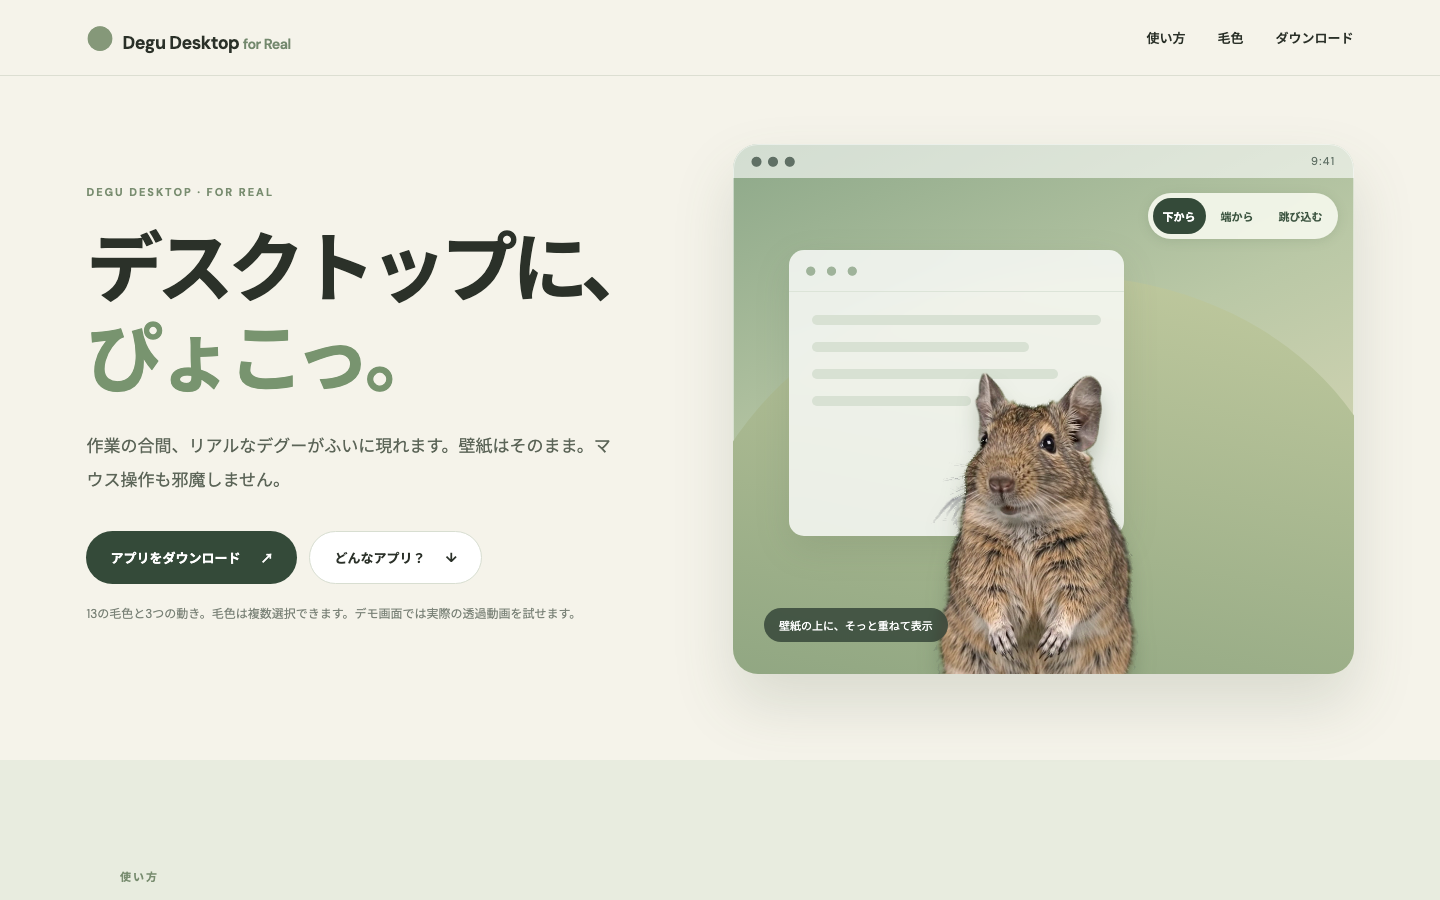
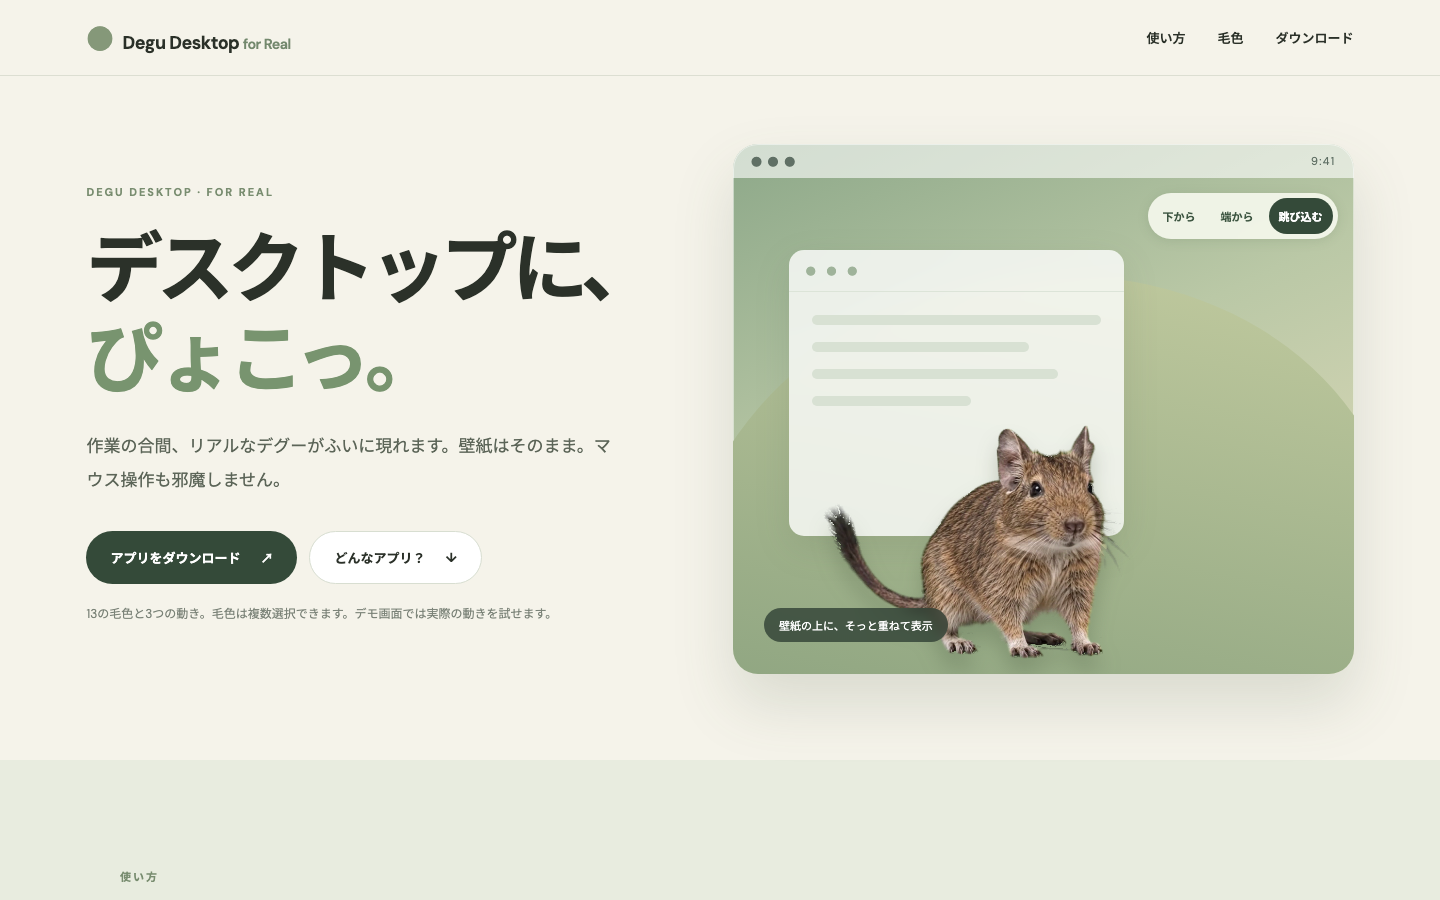
Fit mobile degu demo and add WebKit animation fallback

diff --git a/docs/demo.js b/docs/demo.js
@@ -1,9 +1,16 @@
 const demo = document.querySelector('.desktop');
 const video = document.getElementById('demo-video');
+const webp = document.getElementById('demo-webp');
 const controls = document.getElementById('demo-controls');
 const buttons = [...controls.querySelectorAll('button')];
 const reducedMotion = window.matchMedia('(prefers-reduced-motion: reduce)');
-let ready = false;
+const useWebp = /AppleWebKit/i.test(navigator.userAgent) &&
+  !/(Chrome|Chromium|Edg|OPR)\//i.test(navigator.userAgent);
+let nextTimer;
+
+function currentButton() {
+  return buttons.find(button => button.getAttribute('aria-pressed') === 'true');
+}
 
 function selectButton(button) {
   for (const item of buttons) item.setAttribute('aria-pressed', String(item === button));
@@ -11,35 +18,72 @@ function selectButton(button) {
 }
 
 function playSelected(button) {
+  clearTimeout(nextTimer);
   selectButton(button);
-  const next = `assets/demo/${button.dataset.demo}`;
-  if (!video.src.endsWith(next)) video.src = next;
-  video.currentTime = 0;
-  video.play().catch(() => demo.classList.remove('demo-playing'));
+  const path = `assets/demo/${button.dataset.demo}`;
+  if (useWebp) {
+    webp.src = path.replace(/\.webm$/, '.webp');
+  } else {
+    if (!video.src.endsWith(path)) video.src = path;
+    video.currentTime = 0;
+    video.play().catch(() => demo.classList.remove('demo-playing'));
+  }
 }
 
-function activateDemo() {
-  if (ready) return;
-  if (!video.canPlayType('video/webm; codecs="vp9"')) return;
-  ready = true;
-  demo.classList.add('demo-ready');
-  controls.hidden = false;
+function playNext() {
+  const current = buttons.indexOf(currentButton());
+  playSelected(buttons[(current + 1) % buttons.length]);
+}
+
+function scheduleNextWebp() {
+  clearTimeout(nextTimer);
+  if (!reducedMotion.matches) nextTimer = setTimeout(playNext, 4000);
+}
+
+function showFallback() {
+  clearTimeout(nextTimer);
+  demo.classList.remove('demo-playing', 'demo-ready', 'demo-webp');
+  controls.hidden = true;
+}
+
+if (useWebp) {
+  webp.addEventListener('load', () => {
+    demo.classList.add('demo-webp', 'demo-playing');
+    controls.hidden = false;
+    scheduleNextWebp();
+  });
+  webp.addEventListener('error', () => {
+    if (webp.hasAttribute('src')) showFallback();
+  });
+  if (!reducedMotion.matches) playSelected(currentButton());
+  else controls.hidden = false;
+} else if (video.canPlayType('video/webm; codecs="vp9"')) {
+  video.addEventListener('loadeddata', () => {
+    demo.classList.add('demo-ready');
+    controls.hidden = false;
+    if (!reducedMotion.matches) video.play().catch(() => {});
+  });
+  video.addEventListener('playing', () => demo.classList.add('demo-playing'));
+  video.addEventListener('ended', () => {
+    demo.classList.remove('demo-playing');
+    if (!reducedMotion.matches) playNext();
+  });
+  video.addEventListener('error', showFallback);
+  video.src = `assets/demo/${currentButton().dataset.demo}`;
+  video.load();
   if (!reducedMotion.matches) video.play().catch(() => {});
+} else {
+  showFallback();
 }
 
-video.addEventListener('loadeddata', activateDemo);
-
-video.addEventListener('playing', () => demo.classList.add('demo-playing'));
-video.addEventListener('ended', () => {
-  demo.classList.remove('demo-playing');
-  if (!reducedMotion.matches) {
-    const current = buttons.findIndex(button => button.getAttribute('aria-pressed') === 'true');
-    playSelected(buttons[(current + 1) % buttons.length]);
+for (const button of buttons) button.addEventListener('click', () => playSelected(button));
+reducedMotion.addEventListener('change', () => {
+  if (reducedMotion.matches) {
+    clearTimeout(nextTimer);
+    video.pause();
+    webp.removeAttribute('src');
+    demo.classList.remove('demo-playing', 'demo-webp');
+  } else {
+    playSelected(currentButton());
   }
 });
-video.addEventListener('error', () => {
-  demo.classList.remove('demo-playing', 'demo-ready');
-  controls.hidden = true;
-});
-for (const button of buttons) button.addEventListener('click', () => playSelected(button));
-if (video.readyState >= 2) activateDemo();

diff --git a/docs/index.html b/docs/index.html
@@ -25,17 +25,18 @@
           <a class="button primary" href="download.html">アプリをダウンロード <span>↗</span></a>
           <a class="button secondary" href="#how">どんなアプリ？ <span>↓</span></a>
         </div>
-        <p class="release-note">13の毛色と3つの動き。毛色は複数選択できます。デモ画面では実際の透過動画を試せます。</p>
+        <p class="release-note">13の毛色と3つの動き。毛色は複数選択できます。デモ画面では実際の動きを試せます。</p>
       </div>
       <div class="desktop" aria-label="デスクトップに現れるデグーのイメージ">
         <div class="desktop-bar"><span>● ● ●</span><span>9:41</span></div>
         <div class="desktop-window"><div class="window-dots">● ● ●</div><div class="window-lines"><i></i><i></i><i></i><i></i></div></div>
         <img class="hero-degu hero-degu-fallback" src="assets/colors/agouti.png" alt="アグーチカラーのリアルなデグー">
-        <video class="hero-degu-video" id="demo-video" muted playsinline preload="auto" aria-label="アグーチカラーのデグーが下からぴょこっと現れる動画" src="assets/demo/agouti-a-bottom-pop.webm"></video>
+        <video class="hero-degu-video" id="demo-video" muted playsinline preload="none" aria-label="アグーチカラーのデグーが跳び込む動画"></video>
+        <img class="hero-degu-animation" id="demo-webp" alt="" aria-hidden="true">
         <div class="demo-controls" id="demo-controls" role="group" aria-label="デグーの動きを選ぶ" hidden>
-          <button type="button" data-demo="agouti-a-bottom-pop.webm" data-label="下からぴょこ" aria-pressed="true">下から</button>
+          <button type="button" data-demo="agouti-a-bottom-pop.webm" data-label="下からぴょこ" aria-pressed="false">下から</button>
           <button type="button" data-demo="agouti-b-side-peek.webm" data-label="端からのぞく" aria-pressed="false">端から</button>
-          <button type="button" data-demo="agouti-c-center-hop.webm" data-label="跳び込む" aria-pressed="false">跳び込む</button>
+          <button type="button" data-demo="agouti-c-center-hop.webm" data-label="跳び込む" aria-pressed="true">跳び込む</button>
         </div>
         <div class="desktop-label">壁紙の上に、そっと重ねて表示</div>
       </div>

diff --git a/docs/style.css b/docs/style.css
@@ -4,3 +4,17 @@
 @media(max-width:600px){.topbar{padding:0 22px;gap:8px}.brand{font-size:14px;white-space:nowrap}.brand-mark{font-size:19px;margin-right:2px}.brand-tag{display:none}.topbar nav{flex-shrink:0}.topbar nav a:not(:last-child){display:none}.hero{grid-template-columns:minmax(0,1fr);padding-left:22px;padding-right:22px}.hero>*{min-width:0}.hero h1{font-size:clamp(35px,9vw,48px);overflow-wrap:anywhere}.desktop{min-width:0}.actions .button{max-width:100%}}
 .hero-degu-fallback{transition:opacity .2s}.hero-degu-video{display:none;position:absolute;left:0;bottom:0;width:100%;height:auto;pointer-events:none;filter:drop-shadow(0 15px 10px #3d4c3440)}.demo-ready .hero-degu-video{display:block}.demo-playing .hero-degu-fallback{opacity:0}.demo-controls[hidden]{display:none}.demo-controls{position:absolute;z-index:5;top:49px;right:16px;display:flex;gap:5px;padding:5px;border-radius:999px;background:#f8faf0df;backdrop-filter:blur(9px);box-shadow:0 2px 12px #3b4c3420}.demo-controls button{border:0;background:transparent;color:#3d5541;border-radius:999px;padding:7px 10px;font:700 11px 'Noto Sans JP',sans-serif;cursor:pointer;white-space:nowrap}.demo-controls button[aria-pressed="true"]{background:#344a39;color:white}.demo-controls button:focus-visible{outline:3px solid #315c9e;outline-offset:2px}.desktop-label{z-index:6}@media(max-width:600px){.demo-controls{top:45px;right:10px;gap:1px;padding:4px}.demo-controls button{font-size:10px;padding:6px 8px}}
 .demo-controls button{min-height:36px}@media(max-width:600px){.demo-controls button{min-height:44px}footer span{display:block}}
+.hero-degu-animation{display:none;position:absolute;left:0;bottom:0;width:100%;height:auto;pointer-events:none;filter:drop-shadow(0 15px 10px #3d4c3440)}
+.demo-webp .hero-degu-animation{display:block}
+.demo-webp .hero-degu-video{display:none}
+@media(max-width:600px){
+  .hero{padding-top:32px;padding-bottom:55px;gap:20px}
+  .hero h1{margin:16px 0}
+  .hero-copy>p{line-height:1.8}
+  .actions{margin-top:22px}
+  .hero-copy .release-note{margin-top:13px}
+  .desktop{height:250px;min-height:250px}
+  .hero-degu{width:58%;right:6%}
+  .desktop-label{display:none}
+}
+@media(max-width:360px){.desktop{height:238px;min-height:238px}}

diff --git a/scripts/build_site_demo_webp.py b/scripts/build_site_demo_webp.py
@@ -1,0 +1,48 @@
+#!/usr/bin/env python3
+"""Build animated WebP previews for browsers that lose VP9 alpha in WebM."""
+
+from pathlib import Path
+import subprocess
+
+from PIL import Image
+
+
+ROOT = Path(__file__).resolve().parents[1]
+DEMO = ROOT / "docs" / "assets" / "demo"
+WIDTH, HEIGHT, FPS = 640, 360, 18
+FRAME_BYTES = WIDTH * HEIGHT * 4
+
+
+def convert(source: Path) -> None:
+    command = [
+        "ffmpeg", "-v", "error", "-c:v", "libvpx-vp9", "-i", str(source),
+        "-vf", f"fps={FPS},scale={WIDTH}:{HEIGHT}:flags=lanczos",
+        "-pix_fmt", "rgba", "-f", "rawvideo", "-",
+    ]
+    process = subprocess.Popen(command, stdout=subprocess.PIPE)
+    assert process.stdout is not None
+    frames = []
+    while data := process.stdout.read(FRAME_BYTES):
+        if len(data) != FRAME_BYTES:
+            raise RuntimeError(f"Incomplete frame in {source.name}")
+        frames.append(Image.frombytes("RGBA", (WIDTH, HEIGHT), data))
+    if process.wait() != 0 or not frames:
+        raise RuntimeError(f"Could not decode {source.name}")
+
+    target = source.with_suffix(".webp")
+    frames[0].save(
+        target,
+        format="WEBP",
+        save_all=True,
+        append_images=frames[1:],
+        duration=round(1000 / FPS),
+        loop=0,
+        quality=78,
+        method=5,
+    )
+    print(f"{target.relative_to(ROOT)}: {len(frames)} frames, {target.stat().st_size:,} bytes")
+
+
+if __name__ == "__main__":
+    for source in sorted(DEMO.glob("*.webm")):
+        convert(source)

diff --git a/docs/design/DESIGN.md b/docs/design/DESIGN.md
@@ -5,8 +5,8 @@
 
 - Status: verified
 - Owner: Codex
-- Last verified: 2026-09-23
-- Target release or task: v0.4.0 direct downloads and WebM product demo
+- Last verified: 2026-09-24
+- Target release or task: v0.4.0 direct downloads and mobile motion demo
 
 ## Product and primary job / 対象と主目的
 
@@ -93,7 +93,7 @@ flowchart LR
 - Spacing/grid: Maximum 1200 px content width; three columns on desktop, one column on mobile.
 - Radius/border/elevation rules: Use existing soft radii; borders distinguish choices without heavy shadows.
 - Icons and imagery: Existing degu asset may appear as a small accent; platform names remain text.
-- Motion and reduced-motion behavior: The download page has no animation. The product page previews the actual WebM clips; reduced-motion settings prevent autoplay.
+- Motion and reduced-motion behavior: The download page has no animation. The product page previews the three WebM clips in browsers that support VP9 and animated WebP conversions in WebKit, where transparent VP9 WebM has a known grey-background bug. Reduced-motion settings prevent autoplay. A still image remains if media fails.
 - Design-token source or mapping: Existing `docs/style.css` colors and type.
 
 ## Responsive behavior / レスポンシブ
@@ -136,7 +136,8 @@ flowchart LR
 - [x] Native links/buttons, visible focus, and reduced-motion behavior are present.
 - [x] No horizontal overflow at 1440, 390, or 320 px in Chrome viewport checks.
 - [x] Public copy names chips and OS versions plainly.
-- [x] The download page needs no JavaScript; the demo uses the three existing 1.5–2.1 MB clips.
+- [x] The download page needs no JavaScript; the demo uses the three existing 1.5–2.1 MB WebM clips and three 0.8–1.3 MB WebP conversions for WebKit.
+- [x] Mobile demo starts with the full-body center-hop clip; the entire mock is visible at 390×844 and 320×780.
 - [x] Mismatch ledger has no unexplained release blocker.
 
 ## Evidence and mismatch ledger / 証拠と差分
@@ -145,12 +146,15 @@ flowchart LR
 ![Download page mobile](evidence/after/download-mobile.png)
 ![WebM demo desktop](evidence/after/demo-desktop.png)
 ![WebM demo mobile](evidence/after/demo-mobile.png)
+![WebM demo narrow mobile](evidence/after/chrome-320.png)
+![Animated WebP demo mobile](evidence/after/safari-webp-390.png)
+![Reduced-motion still mobile](evidence/after/safari-reduced-390.png)
 
 | View/state | Baseline | Target | Implemented | Mismatch | Decision |
 | --- | --- | --- | --- | --- | --- |
 | Desktop download | Current landing screenshot | Three visible OS choices | `download-desktop.png` | No blocker | Accepted |
 | Mobile download | Long landing journey | Single-column choices | `download-mobile.png`, `download-mobile-320.png` | No blocker | Accepted |
-| WebM preview | Static degu image | Real three-motion playback | `demo-desktop.png`, `demo-mobile.png` | Static image remains as fallback | Accepted |
+| Motion preview | Static degu image and a clipped mobile first view | Real three-motion playback with a full degu in the mobile first view | `demo-desktop.png`, `demo-mobile.png`, `chrome-320.png`, `safari-webp-390.png` | Physical iPhone Safari was unavailable; WebKit path was checked with Safari user agent in Chrome | Accepted with device QA pending |
 
 ## Open decisions / 未決事項
 
@@ -162,3 +166,5 @@ flowchart LR
 | --- | --- | --- | --- |
 | Existing product page | This repository | Project-owned | Palette, type, degu asset |
 | AnimalsDesktop public page | UDteach | User's own reference | Download hierarchy and compatibility explanation |
+| [WebKit VP9 alpha bug](https://bugs.webkit.org/show_bug.cgi?id=275908) | WebKit Bugzilla | Public technical issue | Browser fallback decision |
+| [Safari 14 WebP support](https://webkit.org/blog/11340/new-webkit-features-in-safari-14/) | WebKit | Public technical documentation | Transparent animated WebP compatibility |
